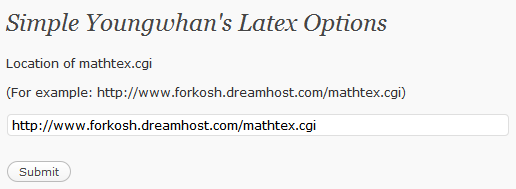
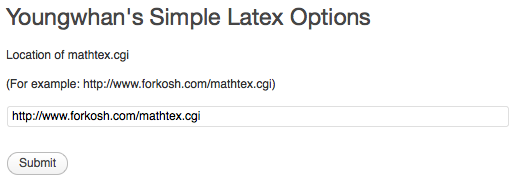
Updated Forkosh's cgi location since it has changed.
git-svn-id: https://plugins.svn.wordpress.org/youngwhans-simple-latex/trunk@467952 b8457f37-d9ea-0310-8a92-e5e31aec5664

diff --git a/yw-latex-options.php b/yw-latex-options.php
@@ -11,7 +11,7 @@ $yw_latex_mathtex = stripslashes(get_option('yw_latex_mathtex'));
     <form name="form1" method="post" action="<?php echo clean_url( remove_query_arg( 'updated' ) ); ?>">
     <input type="hidden" name="yw_latex_option" value="process" />
     <p> Location of mathtex.cgi </p>
-    <p>(For example: http://www.forkosh.dreamhost.com/mathtex.cgi) </p>
+    <p>(For example: http://www.forkosh.com/mathtex.cgi) </p>
         <input type="text" name="yw_option_mathtex" id="yw_option_mathtex" value=<?php echo $yw_latex_mathtex; ?> size="80" />
         <p class="submit">
         <input type="submit" name="Submit" value="<?php _e('Submit', 'yw_latex') ?>" />

diff --git a/yw-latex.php b/yw-latex.php
@@ -29,7 +29,7 @@
 
 if ( !defined('ABSPATH') ) exit;
 
-add_option('yw_latex_mathtex', 'http://www.forkosh.dreamhost.com/mathtex.cgi');
+add_option('yw_latex_mathtex', 'http://www.forkosh.com/mathtex.cgi');
 
 class YW_LATEX {
     function yw_init() {
